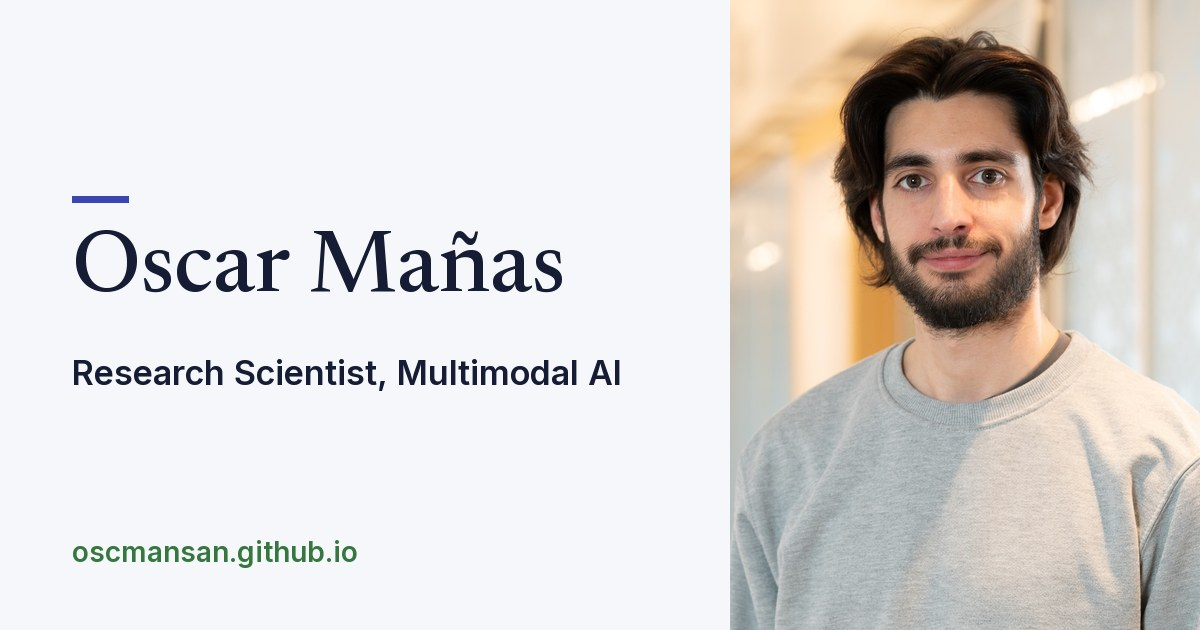
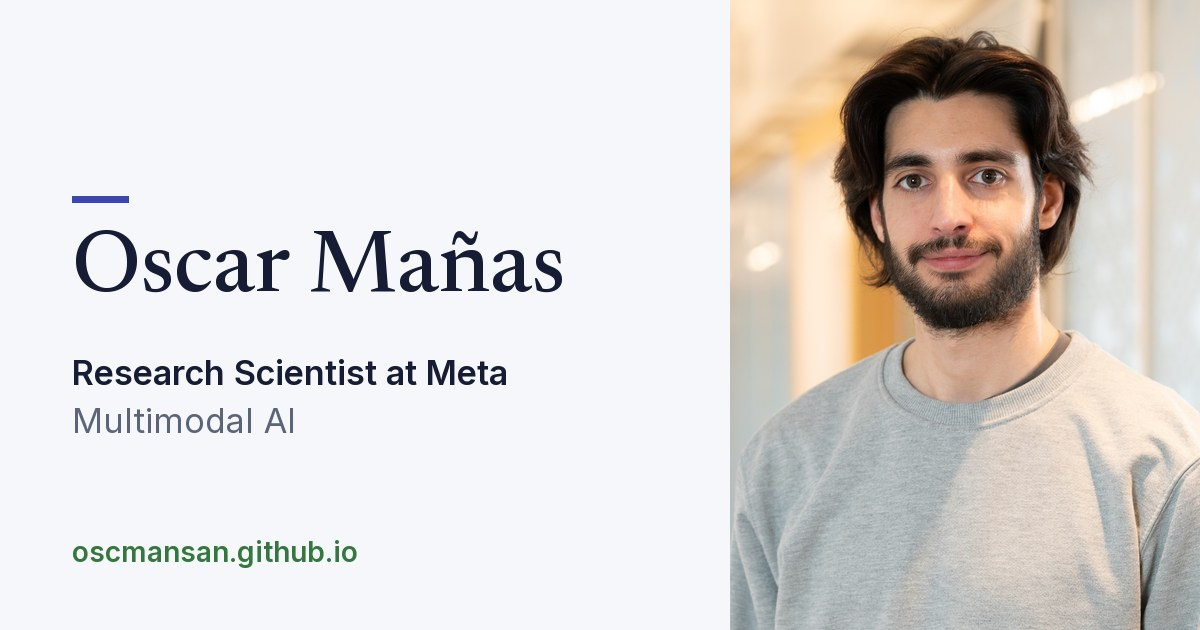
Share card: Research Scientist at Meta + Multimodal AI

Changed region(s): [[0.3083, 0.573, 0.5242, 0.6333], [0.0617, 0.6333, 0.2467, 0.6937]]

diff --git a/scripts/og_image.py b/scripts/og_image.py
@@ -2,7 +2,7 @@
 """Generate the 1200x630 social share card (og:image) into images/og-card.jpg.
 
 This is the preview LinkedIn, Slack, X, etc. show for links to the site.
-Text on the left (name, role, URL), portrait on the right, in the
+Text on the left (name, role, field, URL), portrait on the right, in the
 Sonoma palette. images/og-image.jpg stays the square portrait used by JSON-LD.
 
 Usage (from the repo root):
@@ -22,11 +22,12 @@ OUT = ROOT / "images" / "og-card.jpg"
 
 W, H = 1200, 630
 PHOTO_W = 470  # portrait column on the right
-PAPER, INK = "#f5f7fb", "#151c33"
+PAPER, INK, MUTED = "#f5f7fb", "#151c33", "#5b6478"
 INDIGO, GREEN = "#3a47b3", "#36773f"
 
 NAME = "Oscar Mañas"
-ROLE = "Research Scientist, Multimodal AI"  # matches seo_title in _pages/about.md
+ROLE = "Research Scientist at Meta"
+FIELD = "Multimodal AI"  # as in seo_title in _pages/about.md
 URL = "oscmansan.github.io"
 
 
@@ -48,6 +49,7 @@ def main():
     d.rectangle([x, 196, x + 56, 202], fill=INDIGO)  # heading bar, as on the site
     d.text((x, 226), NAME, font=font("Newsreader-Medium.ttf", 88), fill=INK)
     d.text((x, 352), ROLE, font=font("Inter-SemiBold.ttf", 34), fill=INK)
+    d.text((x, 400), FIELD, font=font("Inter-Regular.ttf", 34), fill=MUTED)
     d.text((x, H - 96), URL, font=font("Inter-SemiBold.ttf", 28), fill=GREEN)
 
     card.save(OUT, quality=88, optimize=True, progressive=True)
